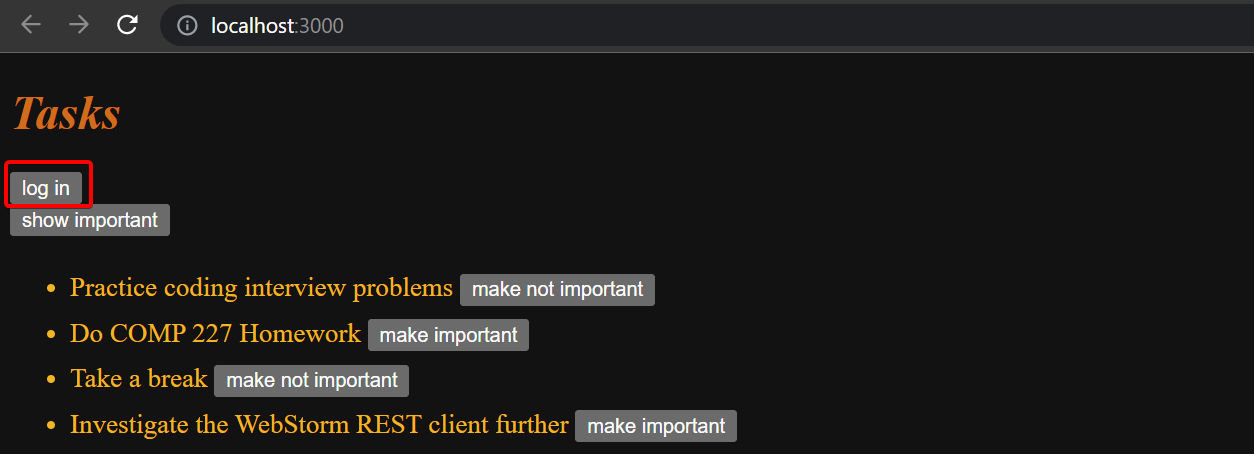
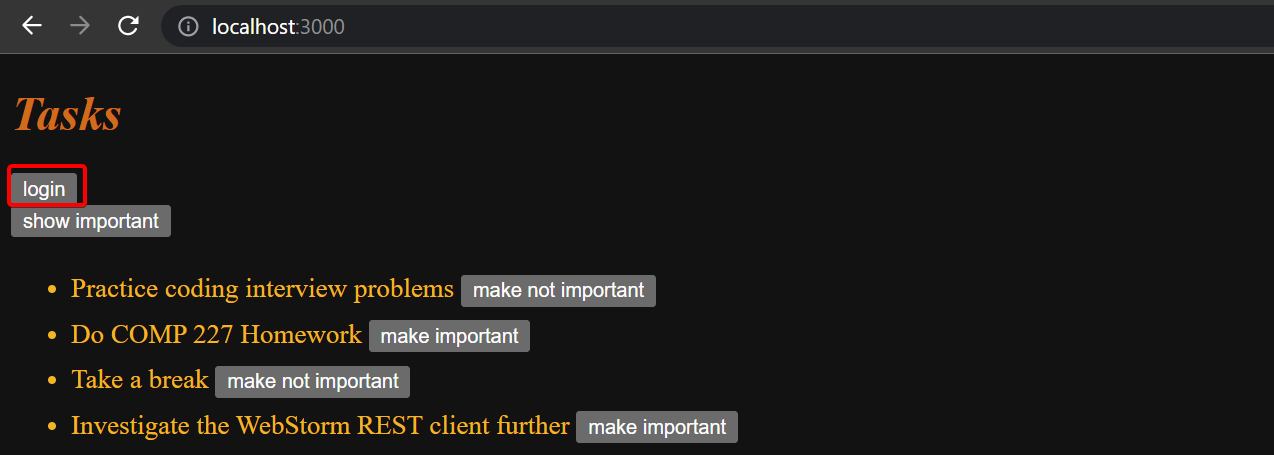
full read through and got to testing new task form

diff --git a/src/content/partnavigation/partnavigation.js b/src/content/partnavigation/partnavigation.js
@@ -19,24 +19,24 @@ module.exports = {
       d: 'Altering data in server',
       e: 'Adding styles to React app',
     },
-    // '3': {
-    //   a: 'Node.js and Express',
-    //   b: 'Deploying app to internet',
-    //   c: 'Saving data to MongoDB',
-    //   d: 'Validation and ESLint',
-    // },
-    // '4': {
-    //   a: 'Structure of backend application, introduction to testing',
-    //   b: 'Testing the backend',
-    //   c: 'User administration',
-    //   d: 'Token authentication',
-    // },
-    // '5': {
-    //   a: 'Login in frontend',
-    //   b: 'props.children and proptypes',
-    //   c: 'Testing React apps',
-    //   d: 'End to end testing',
-    // },
+    '3': {
+      a: 'Node.js and Express',
+      b: 'Deploying app to internet',
+      c: 'Saving data to MongoDB',
+      d: 'Validation and ESLint',
+    },
+    '4': {
+      a: 'Structure of backend application, introduction to testing',
+      b: 'Testing the backend',
+      c: 'User administration',
+      d: 'Token authentication',
+    },
+    '5': {
+      a: 'Login in frontend',
+      b: 'props.children and proptypes',
+      c: 'Testing React apps',
+      d: 'End to end testing',
+    },
     // '6': {
     //   a: 'Flux-architecture and Redux',
     //   b: 'Many reducers',

diff --git a/src/content/5/en/part5d.md b/src/content/5/en/part5d.md
@@ -7,36 +7,38 @@ lang: en
 
 <div class="content">
 
-So far we have tested the backend as a whole on an API level using integration tests and tested some frontend components using unit tests.
+So far we have:
+
+- tested the backend on an API level using integration tests and
+- tested some frontend components using unit tests.
 
 Next, we will look into one way to test the [system as a whole](https://en.wikipedia.org/wiki/System_testing) using **End to End** (E2E) tests.
 
-We can do E2E testing of a web application using a browser and a testing library.
-There are multiple libraries available.
+To do E2E testing on a web application, we can use a browser and a testing library.
+There are multiple testing libraries available.
 One example is [Selenium](http://www.seleniumhq.org/),
 which can be used with almost any browser.
-Another browser option is so-called [headless browsers](https://en.wikipedia.org/wiki/Headless_browser),
-which are browsers with no graphical user interface.
+Another browser option is a [**headless browser**](https://en.wikipedia.org/wiki/Headless_browser),
+which is a browser with no graphical user interface.
 For example, Chrome can be used in headless mode.
 
 E2E tests are potentially the most useful category of tests because they test the system through the same interface as real users use.
 
-They do have some drawbacks too.
+However, E2E tests have some drawbacks too.
 Configuring E2E tests is more challenging than unit or integration tests.
 They also tend to be quite slow, and with a large system, their execution time can be minutes or even hours.
 This is bad for development because during coding it is beneficial to be able to run tests as often as possible in case of code [regressions](https://en.wikipedia.org/wiki/Regression_testing).
-
-E2E tests can also be [flaky](https://hackernoon.com/flaky-tests-a-war-that-never-ends-9aa32fdef359).
-Some tests might pass one time and fail another, even if the code does not change at all.
+Lastly, E2E tests can be [**flaky**](https://docs.cypress.io/guides/cloud/flaky-test-management).
+Flaky tests are undesired because they can change from passing to failing or vice-versa simply *by running the tests again, without even changing any code*.
 
 ### Cypress
 
-E2E library [Cypress](https://www.cypress.io/) has become popular within the last year.
+E2E library [Cypress](https://www.cypress.io/) has become popular recently.
 Cypress is exceptionally easy to use, and when compared to Selenium, for example, it requires a lot less hassle and headache.
 Its operating principle is radically different than most E2E testing libraries because Cypress tests are run completely within the browser.
 Other libraries run the tests in a Node process, which is connected to the browser through an API.
 
-Let's make some end-to-end tests for our task application.
+Let's make some end-to-end tests using Cypress for our task application.
 
 We begin by installing Cypress to *the frontend* as a development dependency
 
@@ -54,14 +56,15 @@ and by adding an npm-script to run it:
     "build": "react-scripts build",
     "test": "react-scripts test",
     "eject": "react-scripts eject",
-    "server": "json-server -p3001 db.json",
+    "server": "json-server -p3001 --watch db.json",
+    "eslint": "eslint .",
     "cypress:open": "cypress open"  // highlight-line
   },
   // ...
 }
 ```
 
-Unlike the frontend's unit tests, Cypress tests can be in the frontend or the backend repository, or even in their separate repository.
+Unlike the frontend's unit tests, *Cypress tests can be in the frontend or the backend repository*, or even in their separate repository.
 
 The tests require the tested system to be running.
 Unlike our backend integration tests, Cypress tests **do not start** the system when they are run.
@@ -74,49 +77,58 @@ Let's add an npm script to *the backend* which starts it in test mode, or so tha
   "scripts": {
     "start": "cross-env NODE_ENV=production node index.js",
     "dev": "cross-env NODE_ENV=development nodemon index.js",
-    "build:ui": "rm -rf build && cd ../../../2/luento/tasks && npm run build && cp -r build ../../../3/luento/tasks-backend",
-    "deploy": "git push heroku master",
-    "deploy:full": "npm run build:ui && git add .
-&& git commit -m uibuild && git push && npm run deploy",
-    "logs:prod": "heroku logs --tail",
+    "test": "cross-env NODE_ENV=test jest --verbose --runInBand --forceExit",
+    "start:test": "cross-env NODE_ENV=test node index.js", // highlight-line
+    "build:ui": "rm -rf build && cd ../part2-tasks/ && npm run build && cp -r build ../part3-tasks-backend",
+    "deploy": "npm run build:ui && git add . && git commit -m npm_generated_rebuild_of_the_UI && git push",
     "lint": "eslint .",
-    "test": "cross-env NODE_ENV=test jest --verbose --runInBand",
-    "start:test": "cross-env NODE_ENV=test node index.js" // highlight-line
+    "fixlint": "eslint . --fix"
   },
   // ...
 }
 ```
 
-NB! To get Cypress working with WSL2 one might need to do some additional configuring first.
+> **NB** To get Cypress working with WSL2 one might need to do some additional configuring first.
 These two [links](https://docs.cypress.io/guides/getting-started/installing-cypress#Windows-Subsystem-for-Linux)
 are great places to [start](https://nickymeuleman.netlify.app/blog/gui-on-wsl2-cypress).
   
-When both the backend and frontend are running, we can start Cypress with the command
+With the backend running, we can start Cypress via the frontend with the command
 
 ```js
 npm run cypress:open
 ```
 
-When we first run Cypress, it creates a *cypress* directory.
-It contains an *e2e* subdirectory, where we will place our tests.
-Cypress creates a bunch of example tests for us in two subdirectories: the *e2e/1-getting-started* and the *e2e/2-advanced-examples* directory.
-We can delete both directories and make our test in the file *task_app.cy.js*:
+When we first run Cypress, it will provide us with a guided process and show how it's the first time that we have run it.
+Once you reach the *Welcome to Cypress!* message, follow these steps:
+
+1. click ***E2E Testing*** on the *Welcome* Screen
+2. click ***Continue*** on the *Configuration Files* Screen
+3. click ***Start E2E Testing in Chrome*** on the *Choose a Browser* Screen
+4. select ***Create new spec*** on *Create Your First Spec* Screen
+5. Replace the spec filename from *spec.cy.js* to ***task_app.cy.js*** and click ***Create spec***
+    - The full path should be *cypress\e2e\task_app.cy.js*
+6. Close the next dialog box on the *spec successfully added screen*
+7. Now switch back to WebStorm and open the project explorer.
+
+Notice how in Webstorm there is now a *cypress/e2e* directory, along with our file *task_app.cy.js*.
+Locate it and open it in Webstorm and replace the contents with the code below.
 
 ```js
 describe('Task app', function() {
   it('front page can be opened', function() {
     cy.visit('http://localhost:3000')
     cy.contains('Tasks')
-    cy.contains('Task app, Department of Computer Science, University of Helsinki 2022')
+    cy.contains('Task app, Department of Computer Science, University of the Pacific 2023')
   })
 })
 ```
 
+Now, switch back to cypress and click on our task_app file.
 We start the test from the opened window:
 
 ![cypress screenshot with run 1 integration spec](../../images/5/40x.png)
 
-**NOTE**: you might need to restart Cypress after deleting the example tests.
+> **NB**: you may need to restart Cypress if you run into any issues.
 
 Running the test opens your browser and shows how the application behaves as the test is run:
 
@@ -127,9 +139,10 @@ They use `describe` blocks to group different test cases, just like Jest.
 The test cases have been defined with the `it` method.
 Cypress borrowed these parts from the [Mocha](https://mochajs.org/) testing library it uses under the hood.
 
-[cy.visit](https://docs.cypress.io/api/commands/visit.html) and [cy.contains](https://docs.cypress.io/api/commands/contains.html) are Cypress commands, and their purpose is quite obvious.
-[cy.visit](https://docs.cypress.io/api/commands/visit.html) opens the web address given to it as a parameter in the browser used by the test.
-[cy.contains](https://docs.cypress.io/api/commands/contains.html) searches for the string it received as a parameter from the page.
+[`cy.visit`](https://docs.cypress.io/api/commands/visit.html) and [`cy.contains`](https://docs.cypress.io/api/commands/contains.html)
+are Cypress commands, and their purpose is quite obvious.
+[`cy.visit`](https://docs.cypress.io/api/commands/visit.html) opens the web address given to it as a parameter in the browser used by the test.
+[`cy.contains`](https://docs.cypress.io/api/commands/contains.html) searches for the string it received as a parameter from the page.
 
 We could have declared the test using an arrow function
 
@@ -138,12 +151,13 @@ describe('Task app', () => { // highlight-line
   it('front page can be opened', () => { // highlight-line
     cy.visit('http://localhost:3000')
     cy.contains('Tasks')
-    cy.contains('Task app, Department of Computer Science, University of Helsinki 2022')
+    cy.contains('Task app, Department of Computer Science, University of the Pacific 2023')
   })
 })
 ```
 
-However, Mocha [recommends](https://mochajs.org/#arrow-functions) that arrow functions are not used, because they might cause some issues in certain situations.
+However, Mocha [recommends](https://mochajs.org/#arrow-functions) that **arrow functions are not used**,
+because they might cause some issues in certain situations.
 
 If `cy.contains` does not find the text it is searching for, the test does not pass.
 So if we extend our test like so
@@ -153,13 +167,13 @@ describe('Task app', function() {
   it('front page can be opened',  function() {
     cy.visit('http://localhost:3000')
     cy.contains('Tasks')
-    cy.contains('Task app, Department of Computer Science, University of Helsinki 2022')
+    cy.contains('Task app, Department of Computer Science, University of the Pacific 2023')
   })
 
 // highlight-start
   it('front page contains random text', function() {
     cy.visit('http://localhost:3000')
-    cy.contains('wtf is this app?')
+    cy.contains('this app sus')
   })
 // highlight-end
 })
@@ -169,11 +183,11 @@ the test fails
 
 ![cypress showing failure expecting to find wtf but no](../../images/5/33x.png)
 
-Let's remove the failing code from the test.
+Let's ***remove the failing code from the test***.
 
 ### Writing to a form
 
-Let's extend our tests so that the test tries to log in to our application.
+Let's extend our tests so that the test tries to login to our application.
 We assume our backend contains a user with the username `powercat` and password `tigers`.
 
 The test begins by opening the login form.
@@ -189,10 +203,13 @@ describe('Task app',  function() {
 })
 ```
 
-The test first searches for the login button by its text and clicks the button with the command [cy.click](https://docs.cypress.io/api/commands/click.html#Syntax).
+The test
 
-Both of our tests begin the same way, by opening the page *<http://localhost:3000>*, so we should
-separate the shared part into a `beforeEach` block run before each test:
+1. *searches for the "login" button* by its text
+2. *clicks the button* with the command [`cy.click`](https://docs.cypress.io/api/commands/click.html#Syntax).
+
+Since both of our tests start by opening the page *<http://localhost:3000>*, we should
+separate that shared part into a `beforeEach` block run before each test:
 
 ```js
 describe('Task app', function() {
@@ -204,7 +221,7 @@ describe('Task app', function() {
 
   it('front page can be opened', function() {
     cy.contains('Tasks')
-    cy.contains('Task app, Department of Computer Science, University of Helsinki 2022')
+    cy.contains('Task app, Department of Computer Science, University of the Pacific 2023')
   })
 
   it('login form can be opened', function() {
@@ -215,24 +232,24 @@ describe('Task app', function() {
 
 The login field contains two *input* fields, which the test should write into.
 
-The [cy.get](https://docs.cypress.io/api/commands/get.html#Syntax) command allows for searching elements by CSS selectors.
+The [`cy.get`](https://docs.cypress.io/api/commands/get.html#Syntax) command allows for searching elements by CSS selectors.
 
 We can access the first and the last input field on the page,
-and write to them with the command [cy.type](https://docs.cypress.io/api/commands/type.html#Syntax) like so:
+and write to them with the command [`cy.type`](https://docs.cypress.io/api/commands/type.html#Syntax) like so:
 
 ```js
 it('user can login', function () {
   cy.contains('login').click()
-  cy.get('input:first').type('powercat')
+  cy.get('input:first').type('root')
   cy.get('input:last').type('tigers')
 })  
 ```
 
-The test works.
-The problem is if we later add more input fields, the test will break because it expects the fields it needs to be the first and the last on the page.
+The test works, though our test is brittle.
+If we later add more input fields, the test will break because it expects the fields *username* and *password* to be the first and the last inputs on the page.
 
 It would be better to give our inputs unique *ids* and use those to find them.
-We change our login form like so:
+Let's modify our login form:
 
 ```js
 const LoginForm = ({ ... }) => {
@@ -273,20 +290,20 @@ The test becomes:
 ```js
 describe('Task app',  function() {
   // ..
-  it('user can log in', function() {
+  it('user can login', function() {
     cy.contains('login').click()
-    cy.get('#username').type('powercat')  // highlight-line    
+    cy.get('#username').type('root')  // highlight-line    
     cy.get('#password').type('tigers')  // highlight-line
     cy.get('#login-button').click()  // highlight-line
 
-    cy.contains('Matti Luukkainen logged in') // highlight-line
+    cy.contains('Superuser logged in') // highlight-line
   })
 })
 ```
 
 The last row ensures that the login was successful.
 
-Notice that the CSS [id-selector](https://developer.mozilla.org/en-US/docs/Web/CSS/ID_selectors) is #,
+Notice that the CSS [**id selector**](https://developer.mozilla.org/en-US/docs/Web/CSS/ID_selectors) is #,
 so if we want to search for an element with the id `username` the CSS selector is `#username`.
 
 ### Some things to remember
@@ -310,11 +327,11 @@ If we search for a button by its text, [cy.contains](https://docs.cypress.io/api
 This will happen even if the button is not visible.
 To avoid name conflicts, we gave the submit button the id `login-button` we can use to access it.
 
-Now we notice that the variable `cy` our tests use gives us a nasty Eslint error
+If you are following along as you are working through this text, you may have noticed that the variable `cy` in our tests gives us an error:
 
 ![vscode screenshot showing cy is not defined](../../images/5/30ea.png)
 
-We can get rid of it by installing [eslint-plugin-cypress](https://github.com/cypress-io/eslint-plugin-cypress) as a development dependency
+We can get rid of those errors by installing [eslint-plugin-cypress](https://github.com/cypress-io/eslint-plugin-cypress) as a development dependency
 
 ```js
 npm install eslint-plugin-cypress --save-dev
@@ -396,7 +413,7 @@ The structure of the tests looks like so:
 describe('Task app', function() {
   // ...
 
-  it('user can log in', function() {
+  it('user can login', function() {
     cy.contains('login').click()
     cy.get('#username').type('powercat')
     cy.get('#password').type('tigers')
@@ -421,7 +438,7 @@ describe('Task app', function() {
 ```
 
 Cypress runs the tests in the order they are in the code.
-So first it runs `user can log in`, where the user logs in.
+So first it runs `user can login`, where the user logs in.
 Then cypress will run `a new task can be created` for which a `beforeEach` block logs in as well.
 Why do this? Isn't the user logged in after the first test?
 No, because ***each*** test starts from zero as far as the browser is concerned.
@@ -761,7 +778,7 @@ The Cypress documentation gives us the following advice:
 [Fully test the login flow – but only once!](https://docs.cypress.io/guides/end-to-end-testing/testing-your-app#Fully-test-the-login-flow-but-only-once).
 So instead of logging in a user using the form in the `beforeEach` block, Cypress recommends that we
 [bypass the UI](https://docs.cypress.io/guides/getting-started/testing-your-app.html#Bypassing-your-UI)
-and do an HTTP request to the backend to log in.
+and do an HTTP request to the backend to login.
 The reason for this is that logging in with an HTTP request is much faster than filling out a form.
 
 Our situation is a bit more complicated than in the example in the Cypress documentation because when a user logs in, our application saves their details to the localStorage.

diff --git a/src/content/5/en/part5b.md b/src/content/5/en/part5b.md
@@ -102,7 +102,7 @@ const App = () => {
     return (
       <div>
         <div style={hideWhenVisible}>
-          <button onClick={() => setLoginVisible(true)}>log in</button>
+          <button onClick={() => setLoginVisible(true)}>login</button>
         </div>
         <div style={showWhenVisible}>
           <LoginForm
@@ -130,7 +130,7 @@ The value of `loginVisible` is toggled with two buttons.
 Both buttons have their event handlers defined directly in the component:
 
 ```js
-<button onClick={() => setLoginVisible(true)}>log in</button>
+<button onClick={() => setLoginVisible(true)}>login</button>
 
 <button onClick={() => setLoginVisible(false)}>cancel</button>
 ```

diff --git a/src/content/5/en/part5a.md b/src/content/5/en/part5a.md
@@ -332,7 +332,7 @@ return (
     {!user && loginForm()}
     {user && 
       <div>
-        <p>{user.name} logged-in</p>
+        <p>{user.name} logged in</p>
         {taskForm()}
       </div>
     }
